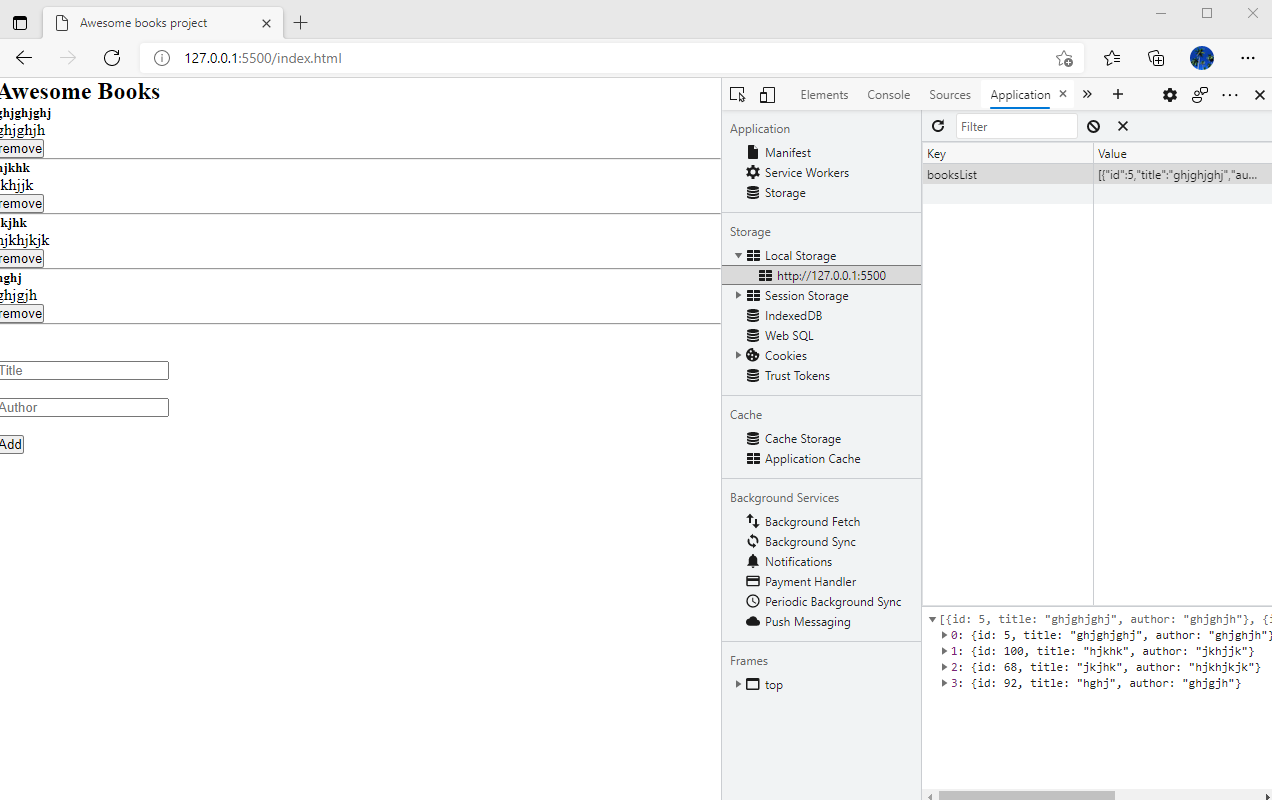
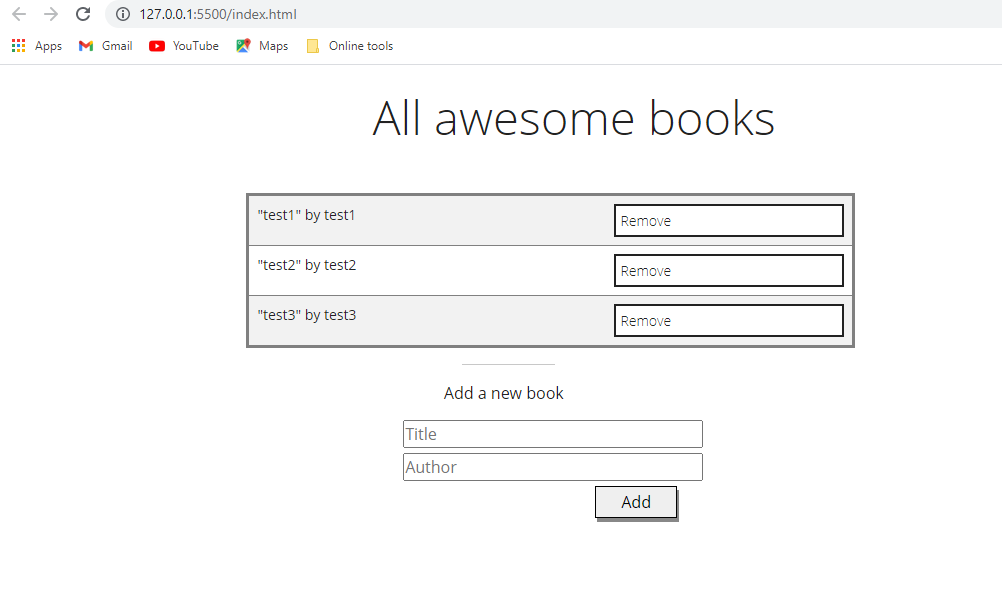
Grid layout and Documentation changes
Grid layout and Documentation changes

diff --git a/main.js b/main.js
@@ -23,9 +23,8 @@ class Library {
   static addBookToList(book) {        
     const row = document.createElement('tr');
     row.innerHTML = `
-    <td>${book.author}</td> 
-    <td>${book.title}</td>
-    <td><a href="#" class="btn removeButton text-rigth d-flex align-items-end">Remove</a></td>
+    <td>"${book.title}" by ${book.author} </td>
+    <td><a href="#" class="btn btn-danger btn-sm delete text-center remove-book ms-auto bg-white border border-2 border-dark text-dark px-1 d-flex align-items-end">Remove</a></td>    
     `;
     booksList.appendChild(row);
   }
@@ -54,10 +53,11 @@ class Library {
       this.books = [];
     } else {
       const row = elem.parentElement.parentElement.innerHTML;
-      const fields = row.split('<');
-      const authorName = fields[1].slice(3, fields[1].length);
+      const fields = row.split('<td>');      
+      const titleName = fields[1].split('"');
+      console.log(titleName[1]);
       newBooks.forEach((book, index) => {
-        if (book.author === authorName) {
+        if (book.title === titleName[1]) {
           newBooks.splice(index, 1);
         }
       });

diff --git a/index.html b/index.html
@@ -10,9 +10,9 @@
 </head>
 <body>
     <div class="container mt-4">
-        <h2 class="display-4 text-center">
+        <h3 class="display-5 text-center">
             All awesome books
-        </h2>
+        </h3>
         <table id="books-container" class="table table-striped mt-5">
             <tbody id="booksList">
 
@@ -31,7 +31,7 @@
             <div>
                 <input type="text" id="addAuthor" class="book_author" placeholder="Author" required><br>
             </div>
-            <div>
+            <div class="bnt-position">
                 <input type="submit" id="addBook" class="addButton" value="Add">
             </div>
         </div>               

diff --git a/CSS/style.css b/CSS/style.css
@@ -11,6 +11,8 @@ body {
 
 #books-container {
   border: 3px gray solid;
+  width: 65%;
+  margin-left: 15%;
 }
 
 .separator {
@@ -42,17 +44,20 @@ body {
 }
 
 .addButton {
-    position:absolute;
     padding: 3px 25px 3px 25px;
-    margin-left: 25px;
     border: 1px solid;
-    box-shadow: 2px 4px #888888;
+    box-shadow: 2px 4px #888888;  
 }
 
 .removeButton {
   border: 1px solid;
   box-shadow: 2px 4px #888888;
-  padding: 3px 20px 3px 20px;
-  margin-left: -95px;
-  text-align: right;
+  margin-left: 0px;
+  width: 75px;;
+}
+
+.bnt-position {
+  display: flex;
+  justify-content: flex-end;
+  padding-right: 20%;
 }

diff --git a/README.md b/README.md
@@ -21,6 +21,12 @@ Herbert Orellana
 
 [Live Demo Link](https://herokudev.github.io/Awesome-books/)
 
+
+## Getting Started
+
+To get a local copy up and running follow these simple example steps. You can either download the zip file, or clone the repository from [here](https://github.com/herokudev/Awesome-books/tree/style-core-elements). After you can open the index.html file to load the website locally.
+
+
 ## Authors
 
 👤 **Author1** (Github: Herokudev)
